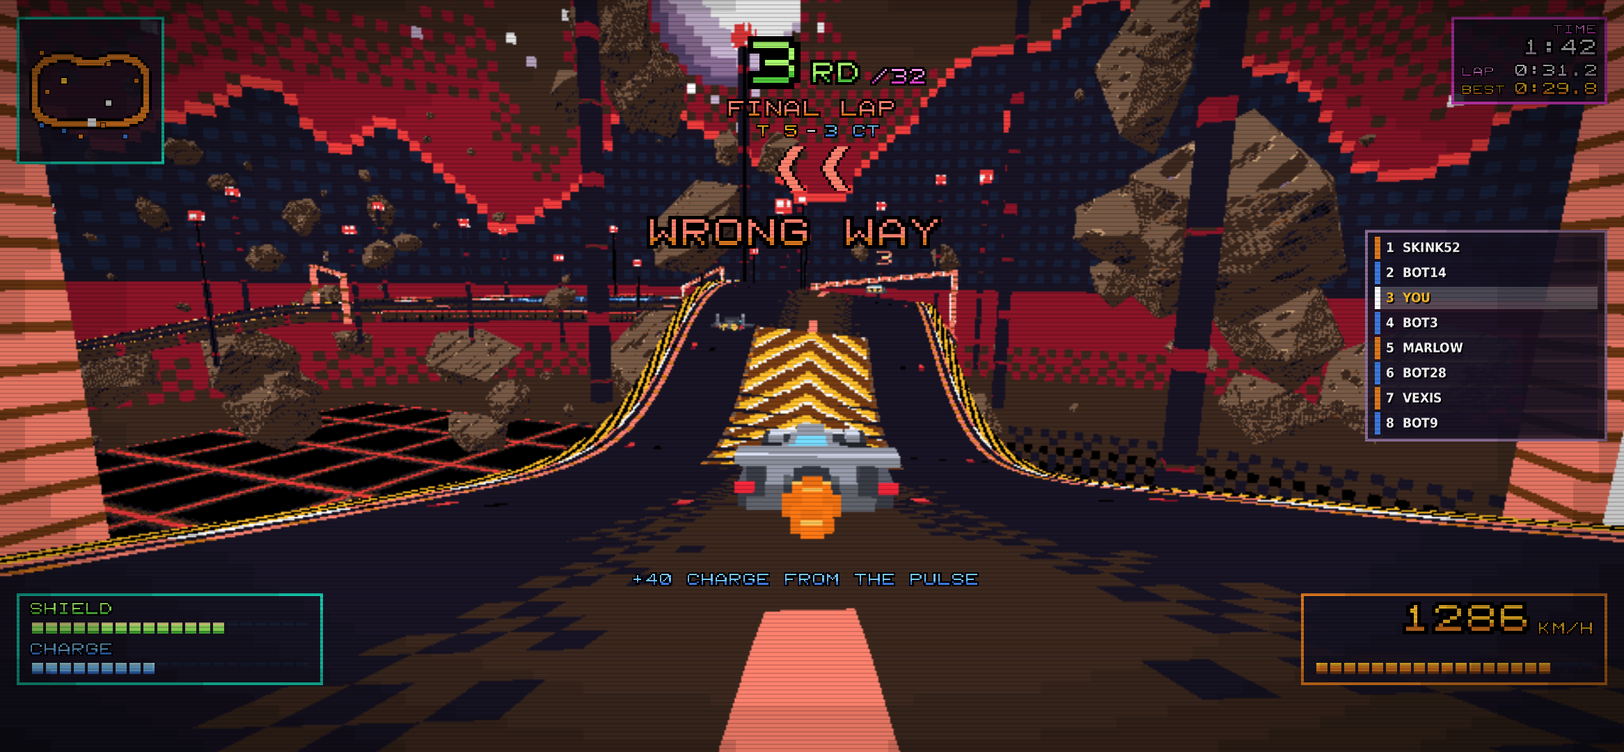
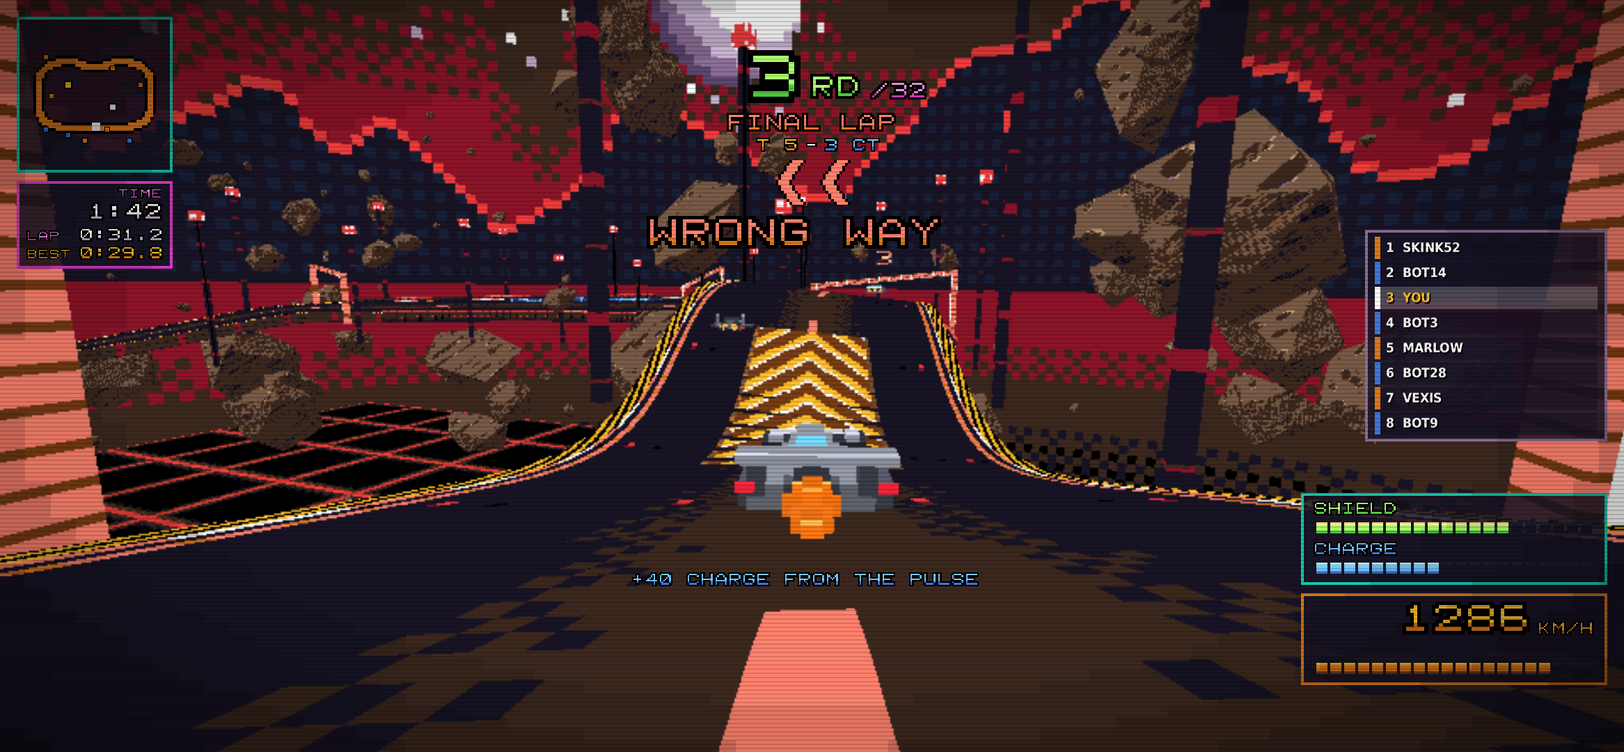
HUD keeps out of CS2's chat, kill feed and team counter
CS2 draws its own HUD over a custom one, so ours now leaves its places free:
- shield / charge moved bottom-right, over the speed (bottom-left is CS2's chat)
- the clock moved under the minimap (top-right is the kill feed); minimap box widened to match
- position / lap block 20 px lower (under the team counter)
- lobby cards raised so the last half-dozen chat lines show under them
- grid car picker bottom-right instead of bottom-centre
- bottom line capped at 38 characters (clear of chat at 16:9); long answers shortened
- the lobby now shows the bottom line (answers to !cam, !car etc.); help text lines that
  duplicated the help panel (and poked out behind it) removed
- hud_render.py fails the build if a panel sits in one of CS2's places (16:9 and ultrawide,
  every state) and draws preview/hud_cs2.png; an over-long HUD line is a console WARNING

Claude-Session: https://claude.ai/code/session_01LHweMRZoWAx6s1kgPwXLL2

diff --git a/src/cs2/60_main.js b/src/cs2/60_main.js
@@ -301,7 +301,8 @@ function onArenaEnd(a, result, now) {
     const pe = c.person;
     if (!pe || pe.bot) continue;
     const pos = r.indexOf(c) + 1;
-    if (pos > 0) bottom(pe.slot, (c.state === 'wrecked' ? 'WRECKED - ' : c.state === 'dnf' ? 'DNF - ' : '') + 'YOU: ' + ordinal(pos) + ' OF ' + r.length + (c.bestLap ? ' - BEST LAP ' + fmtTime(c.bestLap) : ''), CONFIG.RESULTS_HOLD + 2);
+    // (38 characters at most, the bottom line's width: "WRECKED - 12TH OF 32 - BEST LAP 0:29.8")
+    if (pos > 0) bottom(pe.slot, (c.state === 'wrecked' ? 'WRECKED - ' : c.state === 'dnf' ? 'DNF - ' : 'YOU: ') + ordinal(pos) + ' OF ' + r.length + (c.bestLap ? ' - BEST LAP ' + lapText(c.bestLap) : ''), CONFIG.RESULTS_HOLD + 2);
   }
   // the losers die, credited to the podium, one every few ticks
   const plan = rm.killPlan(a);
@@ -360,7 +361,6 @@ function raceInfo(pe, car, a, now, spectating) {
   else if (spectating) info.sub = 'WATCHING ' + car.name.slice(0, 12).toUpperCase() + '  M1/M2 NEXT  E ARENA  A/D CAR';
   else if (a.state === 'grid') info.sub = a.countdown > 3 * TICRATE ? 'YOU START ' + ordinal((car.gridPos || 0) + 1) + ' OF ' + a.order.length + '  -  LIGHTS IN ' + Math.ceil(a.countdown / TICRATE - 3) : 'PRESS W ON THE LAST BEEP FOR A TURBO START';
   else if (pe.afk) info.sub = 'AFK - TYPE !BACK TO RACE NEXT ROUND';
-  else if (pe.helpUntil > now) info.sub = 'W/S DRIVE  A/D STEER  M1 BOOST  M2 SPIN  SPACE DRIFT';
   const bm = timed(botMsgs, pe.slot, now);
   info.msg = bm ? bm.text : '';
   const fl = flashes.get(pe.slot);
@@ -396,7 +396,9 @@ function lobbyInfo(pe, now) {
   }
   if (pe.afk) info.line3 = 'AFK - TYPE !BACK OR PRESS A KEY TO RACE';
   else if (pe.csTeam !== 2 && pe.csTeam !== 3) info.line3 = 'JOIN T OR CT TO RACE';
-  if (pe.helpUntil > now) { info.center = 'W/S DRIVE  A/D STEER  M1 BOOST  M2 SPIN'; info.sub = 'SPACE DRIFT   CHAT: !CAR 1-4 !CAM !CRT !SPEC !AFK'; }
+  // (!help shows the help panel itself; the answers to chat commands like !cam go on the bottom line here too)
+  const bm = timed(botMsgs, pe.slot, now);
+  info.msg = bm ? bm.text : '';
   return info;
 }
 
@@ -639,13 +641,13 @@ Instance.OnPlayerChat(({ player, text }) => guard('chat', () => {
     const n = parseInt(arg, 10);
     const key = CAR_KEYS[n - 1] || CAR_KEYS.find((k) => k === arg || CARS[k].name.toLowerCase() === arg);
     if (key) { if (!rm.setCar(pe, key)) bottom(slot, 'TOO LATE TO SWAP - NEXT ROUND', 3); }
-    else bottom(slot, 'CARS: 1 HORNET  2 METEOR  3 COMET  4 BASTION', 5);
+    else bottom(slot, '1 HORNET  2 METEOR  3 COMET  4 BASTION', 5);
   } else if (t === '!cam' || t.startsWith('!cam ')) {
     const names = Object.keys(CONFIG.CAMERAS);
     const want = t.slice(4).trim();
     const cur = pe.cam || CONFIG.CAM_DEFAULT;
     pe.cam = names.includes(want) ? want : names[(names.indexOf(cur) + 1) % names.length];
-    bottom(slot, 'CAMERA: ' + pe.cam.toUpperCase() + '   (!CAM ' + names.join(' / ').toUpperCase() + ')', 3);
+    bottom(slot, 'CAMERA: ' + pe.cam.toUpperCase() + '  (!CAM ' + names.join('/').toUpperCase() + ')', 3);
   } else if (t === '!tilt') {
     pe.tilt = pe.tilt === false;
     bottom(slot, 'CAMERA TILT ' + (pe.tilt === false ? 'OFF' : 'ON') + '   (!TILT)', 3);

diff --git a/src/cs2/30_hud.js b/src/cs2/30_hud.js
@@ -62,11 +62,17 @@ function glyphClass(ch) {
 }
 const SLOT_IDS = {};
 for (const id in HUD_TEXT.slots) { SLOT_IDS[id] = []; for (let k = 0; k < HUD_TEXT.slots[id]; k++) SLOT_IDS[id].push(id + '_' + k); }
+const tooLong = new Set();
 function hudText(slot, id, text, color, fx) {
   const ids = SLOT_IDS[id];
   if (!ids) return;
   text = String(text === undefined || text === null ? '' : text);
-  if (text.length > ids.length) text = text.slice(0, ids.length);
+  if (text.length > ids.length) {
+    // (said once per line in the console: a line that doesn't fit is a bug to fix, e.g. the bottom line is 38 wide so
+    // it stays clear of CS2's chat)
+    if (!tooLong.has(id + text)) { tooLong.add(id + text); log(`WARNING: HUD text too long for ${id} (${ids.length}): ${text}`); }
+    text = text.slice(0, ids.length);
+  }
   // the row has a fixed number of cells: centre or right-align by padding
   const align = HUD_TEXT.align ? HUD_TEXT.align[id] : 'left';
   if (align === 'center') text = ' '.repeat(Math.floor((ids.length - text.length) / 2)) + text;
@@ -262,7 +268,8 @@ function hudRace(slot, car, arena, info) {
   hudSwap(slot, 'spr_root', null, 'lobby');
 }
 
-// lobby: status lines only (plus the picker)
+// lobby: status lines, the picker and the bottom line (answers to chat commands). The centre lines stay empty: the
+// picker sits where they are.
 function hudLobby(slot, info) {
   hudSwap(slot, 'spr_root', 'stLobby', 'lobby');
   hudSwap(slot, 'spr_root', null, 'on');
@@ -272,9 +279,9 @@ function hudLobby(slot, info) {
   hudText(slot, 'spr_lob1', info.line1 || '', 'cW', info.blink1 ? 'blink' : null);
   hudText(slot, 'spr_lob2', info.line2 || '', 'cY');
   hudText(slot, 'spr_lob3', info.line3 || '', 'cC');
-  hudCenter(slot, info.center, info.centerCls);
-  hudText(slot, 'spr_sub', info.sub || '', 'cW');
-  hudText(slot, 'spr_msg', '');
+  hudCenter(slot, '');
+  hudText(slot, 'spr_sub', '');
+  hudText(slot, 'spr_msg', info.msg || '', 'cC');
   hudSwap(slot, 'spr_flash', null);
 }
 

diff --git a/tools/hud.py b/tools/hud.py
@@ -315,8 +315,13 @@ for i in range(MMCELLS):
     rule('.DotSqL.y%d' % i, transform='translatey(%dpx)' % int(round(c - DOTL / 2)))
 dots = [P('spr_md%d' % k, 'Dot', [P('spr_mdy%d' % k, 'DotSq')]) for k in range(MAXDOTS)]
 dots += [P('spr_ldot', 'DotL Lead', [P('spr_ldoty', 'DotSqL')]), P('spr_dot', 'DotL me', [P('spr_doty', 'DotSqL')])]
-minimap = P('spr_mm', box('MiniMap', 'cyan', MM + 12, MM + 12, x=24, y=24), [
-    P('spr_mmimg', 'MapImg ' + place(x=6, y=6, w=MM, h=MM), dots)])
+# CS2 keeps drawing its own HUD on top of ours, so ours stays out of the places it uses (preview/hud_render.py checks):
+# chat bottom-left (x 18-571, y 609-1000 at 1080 high), the kill feed top-right (from y 75 down), the team counter
+# top centre (to about y 65) and the money / health row along the bottom edge. So the left column is the minimap with
+# the clock under it, the right column the standings with shield / charge and speed below them.
+COL_W = MM + 24              # the left column's boxes: the minimap and the clock, the same width
+minimap = P('spr_mm', box('MiniMap', 'cyan', COL_W, COL_W, x=24, y=24), [
+    P('spr_mmimg', 'MapImg ' + place(x=12, y=12, w=MM, h=MM), dots)])
 
 # ---------------------------------------------------------------- top centre: position, lap, the bend ahead
 rule('.Turn', background_size='100% 100%', background_repeat='no-repeat', opacity='0')
@@ -329,7 +334,7 @@ TB_W = 620
 px0 = (TB_W - POS_W) // 2
 # the live team score under the lap: "T 5 - 3 CT" (top-8 places per side, all arenas), T in gold, CT in cyan
 TT_W, TC_W = row_w(4, 'S'), row_w(5, 'S')
-top = P(None, 'TopBlock ' + place(center=True, y=52, w=TB_W, h=224), [
+top = P(None, 'TopBlock ' + place(center=True, y=72, w=TB_W, h=224), [      # under CS2's team counter
     gtext('spr_pos', 2, 'XXL', 'W', align='right', x=px0, y=0),
     gtext('spr_suf', 2, 'L', 'W', align='left', x=px0 + row_w(2, 'XXL') + 6, y=84 - 40 - 10),
     gtext('spr_posof', 3, 'M', 'P', align='left', x=px0 + row_w(2, 'XXL') + 6 + row_w(2, 'L') + 10, y=84 - 30 - 10),
@@ -339,7 +344,7 @@ top = P(None, 'TopBlock ' + place(center=True, y=52, w=TB_W, h=224), [
     gtext('spr_tct', 5, 'S', 'C', align='left', x=TB_W // 2 + 18, y=126),
     P('spr_turn', 'Turn ' + place(center=True, y=158, w=128, h=64)),
 ])
-clock = P(None, box('ClockBox', 'pink', 216, 118, right=24, y=24), [
+clock = P(None, box('ClockBox', 'pink', COL_W, 118, x=24, y=24 + COL_W + 2 * BORDER + 12), [
     stext('TIME', 'XS', 'P', right=10, y=6),
     gtext('spr_clock', 7, 'M', 'W', align='right', right=8, y=26),
     stext('LAP', 'XS', 'P', x=10, y=67),
@@ -348,8 +353,8 @@ clock = P(None, box('ClockBox', 'pink', 216, 118, right=24, y=24), [
     gtext('spr_best', 7, 'S', 'Y', align='right', right=8, y=89),
 ])
 
-# ---------------------------------------------------------------- bars (bottom left) and speed (bottom right)
-# (bottoms at y 984, clear of CS2's own money / health row along the bottom edge)
+# ---------------------------------------------------------------- shield / charge over speed (bottom right)
+# (bottom-left is CS2's chat; the speed box ends at y 984, clear of CS2's money / health row along the bottom edge)
 rule('.Bar', background_image='url("%sbar_dark.png")' % IMG, background_size='%dpx %dpx' % (BAR_W, BAR_H))
 rule('.Fill', height='100%', width='0px', background_size='%dpx %dpx' % (BAR_W, BAR_H), background_repeat='no-repeat', background_position='0px 0px')
 for i in range(21): rule('.Fill.w%d' % i, width='%dpx' % (20 * i + 2) if i else '0px')     # whole segments: 20 px each at 4x
@@ -364,7 +369,7 @@ rule('#spr_spfill', background_image=barimg('white'))
 rule('.Speed.pad #spr_spfill', background_image=barimg('orange'))
 rule('.Speed.pad', border='%dpx solid %s' % (BORDER, hexc(ORANGE)))
 BOX_Y = 852
-bars = P(None, box('Bars', 'cyan', 432, 124, x=24, y=BOX_Y), [
+bars = P(None, box('Bars', 'cyan', 432, 124, right=24, y=BOX_Y - (124 + 2 * BORDER) - 12), [
     stext('SHIELD', 'S', 'G', x=14, y=8),
     P('spr_shield', 'Bar ' + place(x=14, y=34, w=BAR_W, h=BAR_H), [P('spr_shfill', 'Fill')]),
     stext('CHARGE', 'S', 'C', x=14, y=66),
@@ -449,10 +454,12 @@ for i, k in enumerate(KEYS):
         kids.append(P(None, 'StatBar ' + place(x=128, y=y + 3, w=130, h=12), [P(None, 'StatFill %s_%s' % (k, nm))]))
     cards.append(P('spr_card%d' % i, box('Card', 'white', CARD_W, CARD_H, x=i * (CARD_W + 2 * BORDER + CARD_GAP), y=46), kids))
 PICK_W = 4 * (CARD_W + 2 * BORDER) + 3 * CARD_GAP
-pick = P('spr_pick', 'Pick ' + place(center=True, y=430, w=PICK_W, h=46 + CARD_H + 2 * BORDER + 20),
+# (high enough that the last half-dozen chat lines, bottom-left, show under the cards)
+pick = P('spr_pick', 'Pick ' + place(center=True, y=326, w=PICK_W, h=46 + CARD_H + 2 * BORDER + 20),
          [stext('CHOOSE YOUR MACHINE   A / D', 'M', 'Y', extra='blink', center=True, y=0)] + cards)
 
-# the small picker on the grid: four little cards along the bottom so the flyover's view of the field stays clear
+# the small picker on the grid: four little cards along the bottom right (where shield / charge and speed come up
+# once the lights start) so the flyover's view of the field stays clear and CS2's chat (bottom-left) stays readable
 MC_W, MC_H, MC_GAP = 200, 172, 10
 rule('.MCard.sel', transform='scale3d(1.06, 1.06, 1)', border='%dpx solid %s' % (BORDER, hexc(FRAME['gold'])), background_color='#2a1f3ae0')
 rule('.MCard.sel .MCarPic', animation_name='sprpulse', animation_duration='0.9s', animation_iteration_count='infinite')
@@ -469,7 +476,7 @@ for i, k in enumerate(KEYS):
         stext(c['perk'], 'XS', 'C', center=True, y=MPIC + 24),
     ]))
 MPICK_W = 4 * (MC_W + 2 * BORDER) + 3 * MC_GAP
-pickmini = P('spr_mpick', 'PickMini ' + place(center=True, y=1080 - 96 - (28 + MC_H + 2 * BORDER), w=MPICK_W, h=28 + MC_H + 2 * BORDER),
+pickmini = P('spr_mpick', 'PickMini ' + place(right=24, y=1080 - 96 - (28 + MC_H + 2 * BORDER), w=MPICK_W, h=28 + MC_H + 2 * BORDER),
              [stext('A / D  CHOOSE YOUR CAR', 'S', 'Y', extra='blink', center=True, y=0)] + mcards)
 
 # ---------------------------------------------------------------- lobby: the logo and three pixel lines; results banner; help
@@ -479,7 +486,7 @@ rule('.Logo', background_image='url("%slogo.png")' % IMG, background_size='100% 
 res = P(None, 'ResLogo ' + place(center=True, y=160, w=RES.shape[1], h=RES.shape[0]))
 rule('.ResLogo', background_image='url("%slogo_results.png")' % IMG, background_size='100% 100%',
      animation_name='sprpulse', animation_duration='1.2s', animation_iteration_count='infinite')
-lobby = P(None, 'LobbyLines ' + place(center=True, y=246, w=row_w(60, 'S'), h=3 * 34), [
+lobby = P(None, 'LobbyLines ' + place(center=True, y=212, w=row_w(60, 'S'), h=3 * 34), [
     gtext('spr_lob1', 60, 'S', 'W', center=True, y=0),
     gtext('spr_lob2', 60, 'S', 'Y', center=True, y=34),
     gtext('spr_lob3', 60, 'S', 'C', center=True, y=68)])
@@ -494,7 +501,8 @@ centre = [
     gtext('spr_ctr', 20, 'XL', 'W', center=True, y=310),
     gtext('spr_ctr2', 40, 'M', 'W', center=True, y=322),
     gtext('spr_sub', 52, 'S', 'W', center=True, y=392),
-    gtext('spr_msg', 48, 'S', 'C', center=True, y=822),
+    # 38 cells (762 px) at most, so even the longest line stays right of CS2's chat (x 571) on a 16:9 screen
+    gtext('spr_msg', 38, 'S', 'C', center=True, y=822),
 ]
 
 # never shown: these make CS2 compile the loading screen picture, the radar and the map icon along with the HUD

diff --git a/preview/hud_render.py b/preview/hud_render.py
@@ -2,11 +2,12 @@
 lays the panels out the way the HUD is written (fixed sizes, pinned from the top and the left / centre / right, pixel
 text rows flowing right) and draws them with the real HUD pictures. It also checks the layout rules the HUD relies on
 (every panel has a fixed size, nothing hangs off its parent, no vertical centring, no negative margins outside text
-rows) and prints anything that breaks them.
+rows), checks that nothing of ours sits where CS2 draws its own HUD over it (chat, kill feed, team counter, money /
+health row; see cs2_zones) and prints anything that breaks them.
 
 usage: hud_render.py <addon_out_dir> <background.png> <out_prefix>
-writes <out_prefix>_race.png, _grid.png, _lobby.png, _results.png, _help.png at 1920x1080 and _race_wide.png at 2333x1080
-(the screen in Zach's recording) and _race_43.png at 1440x1080."""
+writes <out_prefix>_race.png, _grid.png, _lobby.png, _results.png, _help.png at 1920x1080, _race_wide.png at 2333x1080
+(the screen in Zach's recording), _race_43.png at 1440x1080 and _cs2.png (the race HUD with CS2's own places marked)."""
 import os, re, sys, json
 import xml.etree.ElementTree as ET
 from PIL import Image, ImageDraw, ImageFont
@@ -148,6 +149,55 @@ def color(v):
         if len(h_) == 8: return tuple(int(h_[i:i + 2], 16) for i in (0, 2, 4, 6))
     return None
 
+# ---------------------------------------------------------------- CS2's own HUD: ours keeps out of its places
+# CS2 draws chat, the kill feed, the team counter and the money / health row on top of a custom HUD, so nothing of
+# ours may sit under them (numbers from CS2's hudchat / huddeathnotice / hud styles, 1080 high). Checked at 16:9 and
+# wider; on 4:3 the chat is 40% of the screen's width, so long centre lines can reach it there.
+def cs2_zones(W, state):
+    z = [('CS2 KILL FEED', W - 430, 72, W, 190),                  # right, margin-top 72, ~36 px a line (3 lines here)
+         ('CS2 TEAM COUNTER', W / 2 - 360, 0, W / 2 + 360, 66),    # avatars, round time, scores
+         ('CS2 MONEY / HEALTH', 0, 1000, W, H)]
+    # chat (box x 18-571, its text 28-561): its last few lines always (up from about y 934), the whole box (from y 609)
+    # while someone types. In the lobby the first car card may sit behind the open chat box (CS2 draws the box over it).
+    z.append(('CS2 CHAT', 0, 800 if state == 'lobby' else 600, 576, 1010))
+    return z
+
+def drawn(item):
+    k, x, y, w, h, bw, op, st = item
+    if op <= 0.01 or w <= 0 or h <= 0 or 'Full' in k.cls: return False
+    bg = color(st.get('background-color', '#00000000'))
+    return bool((bg and bg[3]) or ('background-image' in st and picture(st['background-image']) is not None)
+                or 'border' in st or (k.tag == 'Label' and k.text))
+
+def top_of(k):
+    """the HUD piece a panel belongs to: its ancestor straight under the Screen panel"""
+    while k.parent is not None and 'Screen' not in k.parent.cls: k = k.parent
+    return k
+
+def zone_check(items, W, state):
+    rect = {id(it[0]): it[1:5] for it in items}
+    for (zn, x0, y0, x1, y1) in cs2_zones(W, state):
+        hit = []
+        for it in items:
+            if not drawn(it): continue
+            k, x, y, w, h = it[:5]
+            if x < x1 and x + w > x0 and y < y1 and y + h > y0:
+                t = top_of(k)
+                if t not in hit: hit.append(t)
+        for t in hit:
+            x, y, w, h = rect.get(id(t), (0, 0, 0, 0))
+            nm = t.id or '.'.join(sorted(c for c in t.base if not re.match(r'^L\d+$', c)))
+            problems.append('%s at %d wide: %s (%d,%d %dx%d) is under %s' % (state, W, nm, x, y, w, h, zn))
+
+def zones_picture(img, W, state, name):
+    im = img.convert('RGB')            # (drawing in RGBA onto an RGB picture blends; onto RGBA it would overwrite)
+    d = ImageDraw.Draw(im, 'RGBA')
+    f = ImageFont.truetype(FONT, 22)
+    for (zn, x0, y0, x1, y1) in cs2_zones(W, state):
+        d.rectangle([x0, y0, x1 - 1, y1 - 1], fill=(255, 255, 255, 46), outline=(255, 255, 255, 220), width=3)
+        d.text((x0 + 10, y0 + 6), zn, font=f, fill=(255, 255, 255, 255), stroke_width=2, stroke_fill=(0, 0, 0, 255))
+    im.convert('RGB').save(name)
+
 def draw(items, img):
     font_cache = {}
     for (k, x, y, w, h, bw, op, st) in items:
@@ -241,6 +291,7 @@ def race_state(grid=False, results=False):
             add('spr_rb%d' % i, 'T' if i % 2 == 0 else 'CT')
             if i < 3: add('spr_rb%d' % i, 'p%d' % (i + 1))
         add('spr_rb7', 'me')
+        text('spr_msg', 'WRECKED - 12TH OF 32 - BEST LAP 0:29.8', 'cyan')     # the longest bottom line there is
     if grid:
         text('spr_ctr', 'NULL GAP', 'gold'); text('spr_sub', 'YOU START 3RD OF 32  -  LIGHTS IN 6', 'white')
         add('spr_mcard2', 'sel')
@@ -267,6 +318,7 @@ def lobby_state():
     text('spr_lob3', 'NEXT: SOLAR OVAL - 3 LAPS  RECORD 0:41.2 SKINK52', 'cyan')
     add('spr_card1', 'sel')
     for i, k in enumerate(['hornet', 'meteor', 'comet', 'bastion']): swap('spr_cimg%d' % i, r'^pic_', 'pic_%s_t' % k)
+    text('spr_msg', 'CAMERA: HIGH  (!CAM HIGH/FAR/NEAR)', 'cyan')
 
 def help_state():
     race_state(); add('spr_root', 'stHelp'); text('spr_ctr', ''); text('spr_msg', '')
@@ -285,14 +337,28 @@ def render(W, bgpath, name):
     img.convert('RGB').save(name)
     return img
 
+def check(W, state):
+    """layout only, then CS2's places (see cs2_zones)"""
+    ROOT.st = style(ROOT)
+    items = []
+    layout(ROOT, 0, 0, W, H, 1.0, items, W)
+    zone_check(items, W, state)
+
 shots = []
-race_state(); shots.append(render(1920, BG, PREFIX + '_race.png'))
+race_state(); img = render(1920, BG, PREFIX + '_race.png'); shots.append(img)
+zones_picture(img, 1920, 'race', PREFIX + '_cs2.png')
 race_state(); render(2333, BG, PREFIX + '_race_wide.png')
 race_state(); render(1440, BG, PREFIX + '_race_43.png')
 race_state(grid=True); shots.append(render(1920, BG, PREFIX + '_grid.png'))
 lobby_state(); shots.append(render(1920, BG, PREFIX + '_lobby.png'))
 race_state(results=True); render(1920, BG, PREFIX + '_results.png')
 help_state(); render(1920, BG, PREFIX + '_help.png')
+for W in (1920, 2333):           # 16:9 and Zach's wide screen
+    race_state(); check(W, 'race')
+    race_state(grid=True); check(W, 'grid')
+    race_state(results=True); check(W, 'results')
+    lobby_state(); check(W, 'lobby')
+    help_state(); check(W, 'help')
 seen = set()
 for p in problems:
     if p not in seen: seen.add(p); print('LAYOUT:', p)

diff --git a/docs/DESIGN.md b/docs/DESIGN.md
@@ -180,16 +180,27 @@ Chat: `!car 1-4`, `!cam` (high / far / near view), `!tilt` (camera lean on/off),
 Panorama custom HUD, per player, all game text in the pixel font: a big position ("3RD/32", green on the podium,
 gold when leading; it pops each time you gain a place), the lap ("FINAL LAP" blinks red), the live team score
 ("T 5 - 3 CT": top-8 places per side across all arenas, the thing that decides the CS2 round) and the bend-ahead
-arrows top-centre, the race clock with the running lap time and your best lap top-right, segmented pixel bars for shield and charge bottom-left (shield blinks red when low; charge turns
-gold when boosting and pink on a charge platform), speed bottom-right, the top-8 standings down the right edge (a
-side-coloured tab per row, you highlighted), a pixelated track map top-left with a dot for every car in the race
-(T orange, CT blue, the leader gold, yours blinking white), centre messages (countdown, GO!, FINAL LAP, WRONG WAY
-blinking, WRECKED, FINISHED 3RD, LAP RECORD!; each new one pops in), the car picker (four framed cards, each with a pixel picture of the
-car in your side's colour, its perk and five stat bars; the chosen one gold and pulsing) in the lobby, and a row of
-four small cards along the bottom on the grid (so the flyover's view of the field stays clear), the SPACE RACER logo and three status lines in the lobby, a pulsing RESULTS banner over a results board at the end
-(top 8 with the winner's time and everyone else's gap, your own line swapped in if you placed lower), flickering
-pixel speed lines round the screen edges while boosting, and CRT scanlines plus a vignette over everything (`!crt`
-turns them off for you). `preview/hud_race.png`, `hud_grid.png`, `hud_lobby.png` show it.
+arrows top-centre, a pixelated track map top-left with a dot for every car in the race (T orange, CT blue, the
+leader gold, yours blinking white) and under it the race clock with the running lap time and your best lap, the
+top-8 standings down the right edge (a side-coloured tab per row, you highlighted), segmented pixel bars for shield
+and charge bottom-right (shield blinks red when low; charge turns gold when boosting and pink on a charge platform)
+over the speed, centre messages (countdown, GO!, FINAL LAP, WRONG WAY blinking, WRECKED, FINISHED 3RD, LAP RECORD!;
+each new one pops in), a bottom line for short news and the answers to chat commands, the car picker (four framed
+cards, each with a pixel picture of the car in your side's colour, its perk and five stat bars; the chosen one gold
+and pulsing) in the lobby, and a row of four small cards bottom-right on the grid (so the flyover's view of the
+field stays clear), the SPACE RACER logo and three status lines in the lobby, a pulsing RESULTS banner over a
+results board at the end (top 8 with the winner's time and everyone else's gap, your own line swapped in if you
+placed lower), flickering pixel speed lines round the screen edges while boosting, and CRT scanlines plus a vignette
+over everything (`!crt` turns them off for you). `preview/hud_race.png`, `hud_grid.png`, `hud_lobby.png` show it.
+
+CS2's own HUD stays on (a script can't hide it) and is drawn over ours, so ours keeps out of the places it uses
+(`preview/hud_cs2.png` marks them): chat bottom-left (the chat box is x 18-571, y 609-1000 at 1080 high, its
+newest lines at the bottom), the kill feed top-right (from y 75 down, a line about 36 px), the team counter
+top-centre (to about y 65) and the money / health row along the bottom edge. That is why the left column is the
+map and the clock, shield / charge sit over the speed on the right, the lobby's cards end around y 790 (the last
+half-dozen chat lines show under them) and the bottom line is 38 characters at most (at 16:9 even the longest
+stays right of the chat). On 4:3 the chat is 40% of the screen's width, so long bottom lines and the cards' left
+edge can reach it there; chat is still drawn on top.
 
 How the pixel text works: each text row is a line of small image panels, one per character. The script sets each
 panel's glyph class (`g65` = A) and the row's colour class, and only for characters that changed; whole rows are
@@ -209,7 +220,8 @@ screen, centre text stacked, the bars squashed, no car cards):
   boxes), and panels are shown and hidden with opacity instead of collapsing.
 - `preview/hud_render.py` is a small stand-in for Panorama: it lays the HUD out from the generated xml/css, draws it
   with the real pictures at 1920, 2333 (ultrawide) and 1440 (4:3) wide, and fails the build if any panel breaks
-  those rules.
+  those rules or (at 16:9 and wider, in every state) sits where CS2 draws its chat, kill feed, team counter or
+  money / health row. A text line too long for its row is a `WARNING` in the console (and fails the mock test).
 
 ## Tracks (eight, all original)
 

diff --git a/docs/TESTING.md b/docs/TESTING.md
@@ -21,8 +21,9 @@ Valve's type declarations. These are the things only the real game can show, in 
    seen from behind and above. Watch for the car model, its side colour (T orange / CT blue), the hover shadow.
 4. Drive: W accelerates, A / D steer, Mouse 1 boosts (charge bar drains, flame model), Space drifts, Mouse 2
    spins. Camera: does it lag the car nicely, roll in corners, and never clip through the track? Rails bounce you.
-5. HUD: position / lap top-centre, clock top-right, shield + charge bottom-left, speed bottom-right, standings on
-   the right, minimap top-left with your dot and the leader's dot. Centre messages: countdown, FINAL LAP, WRONG WAY.
+5. HUD: position / lap top-centre, minimap top-left with a dot for every car and the clock under it, standings on
+   the right, shield + charge over the speed bottom-right. Centre messages: countdown, FINAL LAP, WRONG WAY.
+   CS2's chat (bottom-left) and kill feed (top-right) have nothing of ours under them.
 6. Pads: boost pads (orange chevrons) kick; charge platforms (cyan grid) fill charge and shield, with a hum.
 7. Finish: "FINISHED 1ST", the car warps out, results after the window, `FireWinCondition` in the console, the CS2
    round ends with a T or CT win.
@@ -106,15 +107,20 @@ Valve's type declarations. These are the things only the real game can show, in 
 Rebuild fully after copying the files (`disconnect`, then load the map again) so the HUD and the script recompile.
 
 - **HUD placement.** Everything should now sit where `preview/hud_race.png` shows it: minimap top-left (all of it,
-  with a dot for every car: T orange, CT blue, the leader gold, yours blinking white), position + lap top-centre
-  under CS2's own top bar, clock top-right, standings on the right, shield/charge bottom-left and speed
+  with a dot for every car: T orange, CT blue, the leader gold, yours blinking white) with the clock under it,
+  position + lap top-centre under CS2's own top bar, standings on the right, shield/charge over the speed
   bottom-right, a little above CS2's money / health row. Cause of the jumble: the HUD root's "Pick" state used the
   same class name as the picker panel, so the whole HUD took the picker's layout. The layout is also fixed-size now.
+- **CS2 chat stays readable** (`preview/hud_cs2.png` marks CS2's own places). Say something in chat while racing,
+  on the grid and in the lobby: the lines bottom-left should have nothing of ours behind them (in the lobby the
+  last five or six lines show under the cards; with chat open the box covers the first card's corner, which is
+  fine). Wreck someone: the kill feed top-right has nothing of ours under it either. `!cam` in the lobby now
+  answers on the bottom line.
 - **Car picker.** Lobby (`preview/hud_lobby.png`): logo, three lines, then four cards with a picture of each car in
   your side's colour, its perk and five stat bars; A / D moves the gold highlight. Grid (`preview/hud_grid.png`):
-  the track name, "YOU START 3RD OF 10 - LIGHTS IN 6", and a row of four small cards along the bottom (the
-  flyover's view of the field stays clear); they go 3 seconds before the lights and the bars / speed / standings
-  come back. Watching a race: the cards show for 4 seconds after you press A / D.
+  the track name, "YOU START 3RD OF 10 - LIGHTS IN 6", and a row of four small cards bottom-right (the flyover's
+  view of the field stays clear, and chat too); they go 3 seconds before the lights and the bars / speed /
+  standings come back in the same corner. Watching a race: the cards show for 4 seconds after you press A / D.
 - **Countdown.** 3 / 2 / 1 in big red pixel digits in the middle of the screen, then GO!.
 - **Cars on the grid.** All cars visible on the grid from the moment the flyover reaches them (they were being
   teleported every tick, which CS2 doesn't draw).

diff --git a/README.md b/README.md
@@ -40,7 +40,7 @@ Everything here is original work: the name, cars, tracks, art, sounds and rules.
 | `src/cs2/` | The CS2 side: pawn parking and the chase camera, input, prop-pool rendering, HUD, sounds, CS2 kills, round control, chat commands. |
 | `tools/` | Generators: `trackdefs.py` (the eight track designs and colour themes), `tracks.py` (tracks → data, road / tube / scenery models, minimaps), `retro.py` (the palette and dithering), `pixfont.py` (the pixel font and logo), `skies.py` (pixel-art skies), `cars.py` (voxel cars, pixel effects, renders), `loading.py` (loading screen, radar, map icon), `hud.py` (Panorama layout/css and glyph pictures), `sounds.py` (chiptune sounds, music and sound events), `vmap.py` (writes the whole map into the Hammer template), `build.mjs` (assembles the script), `build_all.sh`. |
 | `test/` | `sim.cjs` runs bot races on the pure game; `mock_cs2.mjs` runs the real script on a stand-in cs_script API; `tsconfig.json` + `point_script.d.ts` type-check it against Valve's API. |
-| `preview/` | Pictures of the tracks, skies, cars (`car_angles.png`), loading screen, HUD (`hud_render.py` lays the real HUD out like Panorama would, draws it at 16:9, ultrawide and 4:3, and fails the build if a panel breaks the layout rules), and `chase_view.py`: a software render of the racer's view from the chase camera (sky, banking and all). |
+| `preview/` | Pictures of the tracks, skies, cars (`car_angles.png`), loading screen, HUD (`hud_render.py` lays the real HUD out like Panorama would, draws it at 16:9, ultrawide and 4:3, and fails the build if a panel breaks the layout rules or sits under CS2's own chat, kill feed, team counter or money / health row; `hud_cs2.png` marks those places), and `chase_view.py`: a software render of the racer's view from the chase camera (sky, banking and all). |
 | `docs/` | `DESIGN.md` (the game), `TESTING.md` (first run in CS2), `WORKSHOP_COMPLIANCE.md`, the notes that ship with the addon. |
 | `ref/` | The Hammer map template the build writes into, and the stock sound-events file. |
 
